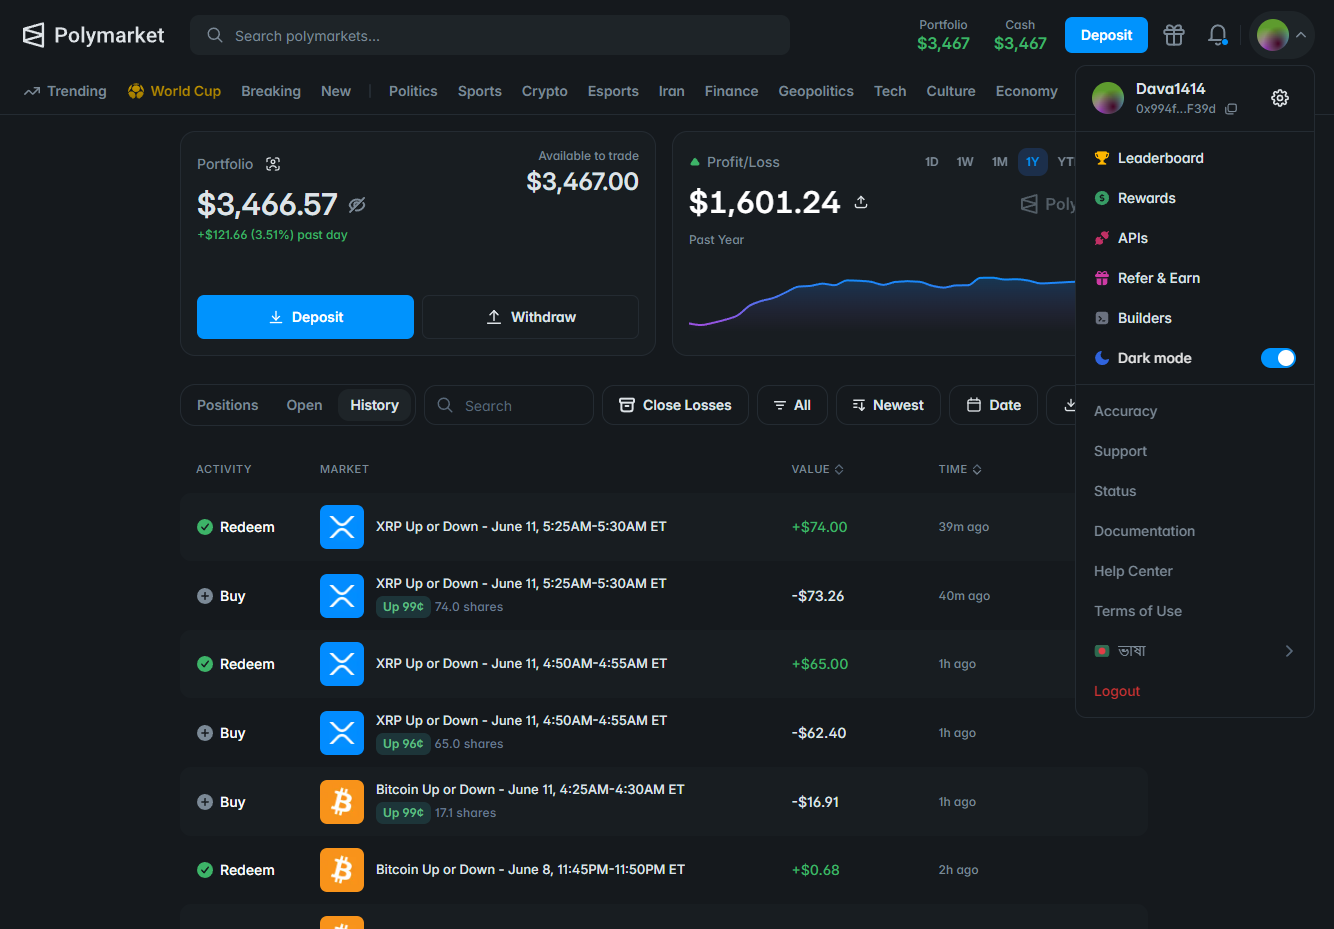
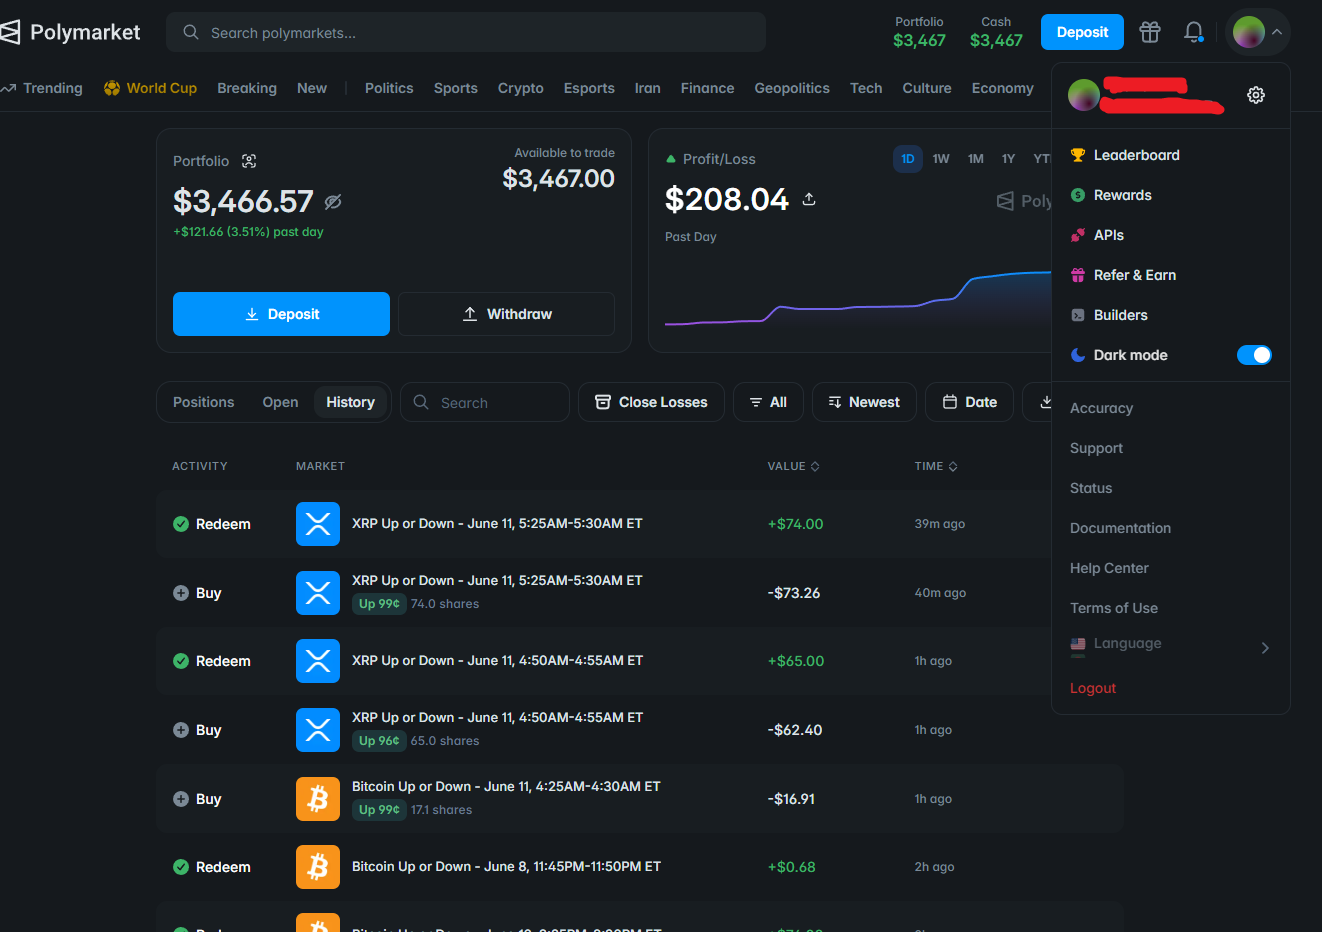
feat:

diff --git a/README.md b/README.md
@@ -4,7 +4,7 @@
 
 A TypeScript bot for **Polymarket 5-minute crypto Up/Down** markets — **BTC, ETH, SOL, and XRP**. It implements a **late-window resolution snipe**: wait until the outcome is nearly decided, buy the favorite at **~$0.98–$0.99**, then hold to resolution for a small payout on each winning cycle.
 
-**Live profile using this strategy:** [**@dava1414 on Polymarket**](https://polymarket.com/@dava1414)
+**Live profile using this strategy:** [**@antsaslyku on Polymarket**](https://polymarket.com/@antsaslyku)
 
 This repository reads live Polymarket prices and **simulates** the same entry/exit logic (console + `logs.txt`). Press **Ctrl+C** to stop and see balance, P/L, and trade count.
 
@@ -12,7 +12,7 @@ This repository reads live Polymarket prices and **simulates** the same entry/ex
 
 ## Live proof — buy → redeem cycles
 
-These are real on-chain transactions from [@dava1414](https://polymarket.com/@dava1414) on Polygon. Each pair shows the same pattern the bot follows: **buy the favorite late in the window → redeem at $1.00 after resolution**.
+These are real on-chain transactions from [@antsaslyku](https://polymarket.com/@antsaslyku) on Polygon. Each pair shows the same pattern the bot follows: **buy the favorite late in the window → redeem at $1.00 after resolution**.
 
 ### Trade 1 — Jun 11, 2026 · ~$0.99 entry
 
@@ -30,16 +30,20 @@ These are real on-chain transactions from [@dava1414](https://polymarket.com/@da
 | **Buy** | 08:55:01 | Buy favorite @ **~$0.98–$0.99** near window end | [View buy tx](https://polygonscan.com/tx/0x7fa58be45dc24afbc8bd135fc6a7147fb548e2c00ad2f5b6100fa7510dd58b45) |
 | **Redeem** | 08:55:30 | Resolution redeem **~29s** after buy | [View redeem tx](https://polygonscan.com/tx/0x4edaaa3a6a6d854fe6ec938280ab3cfd34d07f34fcc75c7f4757feccfc9d30dc) |
 
-> **How to read these txs:** The **buy** tx interacts with `Polymarket: CTF Exchange V2` — USDC out, outcome shares in. The **redeem** tx settles winning shares back to USDC at **$1.00** per share when the 5m window resolves. Repeat this across many windows and P/L compounds — see the full history on [polymarket.com/@dava1414](https://polymarket.com/@dava1414).
+> **How to read these txs:** The **buy** tx interacts with `Polymarket: CTF Exchange V2` — USDC out, outcome shares in. The **redeem** tx settles winning shares back to USDC at **$1.00** per share when the 5m window resolves. Repeat this across many windows and P/L compounds — see the full history on [polymarket.com/@antsaslyku](https://polymarket.com/@antsaslyku).
 
-### Profile screenshots ([@dava1414](https://polymarket.com/@dava1414))
+### Profile screenshots ([@antsaslyku](https://polymarket.com/@antsaslyku))
 
 Live Polymarket dashboard — portfolio growth and buy/redeem activity on **BTC** and **XRP** 5m markets at **96–99¢**:
 
-| Past year P/L | Past day P/L |
-|---------------|--------------|
-| ![Polymarket profile — past year profit/loss chart and trade history](doc/daily_pnl.png) | ![Polymarket profile — past day profit/loss and recent buy/redeem trades](doc/total_pnl.png) |
-| **+$1,601.24** past-year P/L · portfolio **~$3,467** · XRP/BTC buys @ **99¢** → redeem **$1.00** | **+$208.04** past-day P/L · **+3.51%** in 24h · same late-window snipe pattern |
+![Polymarket profile — past day profit/loss and recent trades](doc/daily_pnl.png)
+
+- Past year P/L: **+$82,537.48**
+- Past day P/L: **+$208.04**
+- 24h Return: **+3.51%**
+- Portfolio Value: **~$3,467**
+
+Trade history includes repeated entries in late-stage crypto prediction markets followed by successful redemptions at settlement.
 
 ---
 
@@ -168,7 +172,7 @@ Simulated terminal runs (market conditions vary):
 | $500 | $50 | ~$300 |
 | $1,000 | $100 | ~$500 |
 
-These differ from the live [@dava1414](https://polymarket.com/@dava1414) results above — the repo **simulates** logic locally; your real P/L depends on balance, sizing, and how often each asset hits the 0.97–0.99 band.
+These differ from the live [@antsaslyku](https://polymarket.com/@antsaslyku) results above — the repo **simulates** logic locally; your real P/L depends on balance, sizing, and how often each asset hits the 0.97–0.99 band.
 
 ---
 
@@ -191,7 +195,7 @@ Constants in [`src/index.ts`](src/index.ts):
 
 - **Small edge, large tail risk** — ~$0.02/share at $0.98 entry; one reversal can erase many wins.
 - **Not every window trades** — many cycles never hit 0.97–0.99 in time.
-- **This repo simulates P/L** — live trading requires CLOB order placement and real fills; past on-chain results ([@dava1414](https://polymarket.com/@dava1414)) do not guarantee future performance.
+- **This repo simulates P/L** — live trading requires CLOB order placement and real fills; past on-chain results ([@antsaslyku](https://polymarket.com/@antsaslyku)) do not guarantee future performance.
 - **Not financial advice** — use at your own risk.
 
 ---